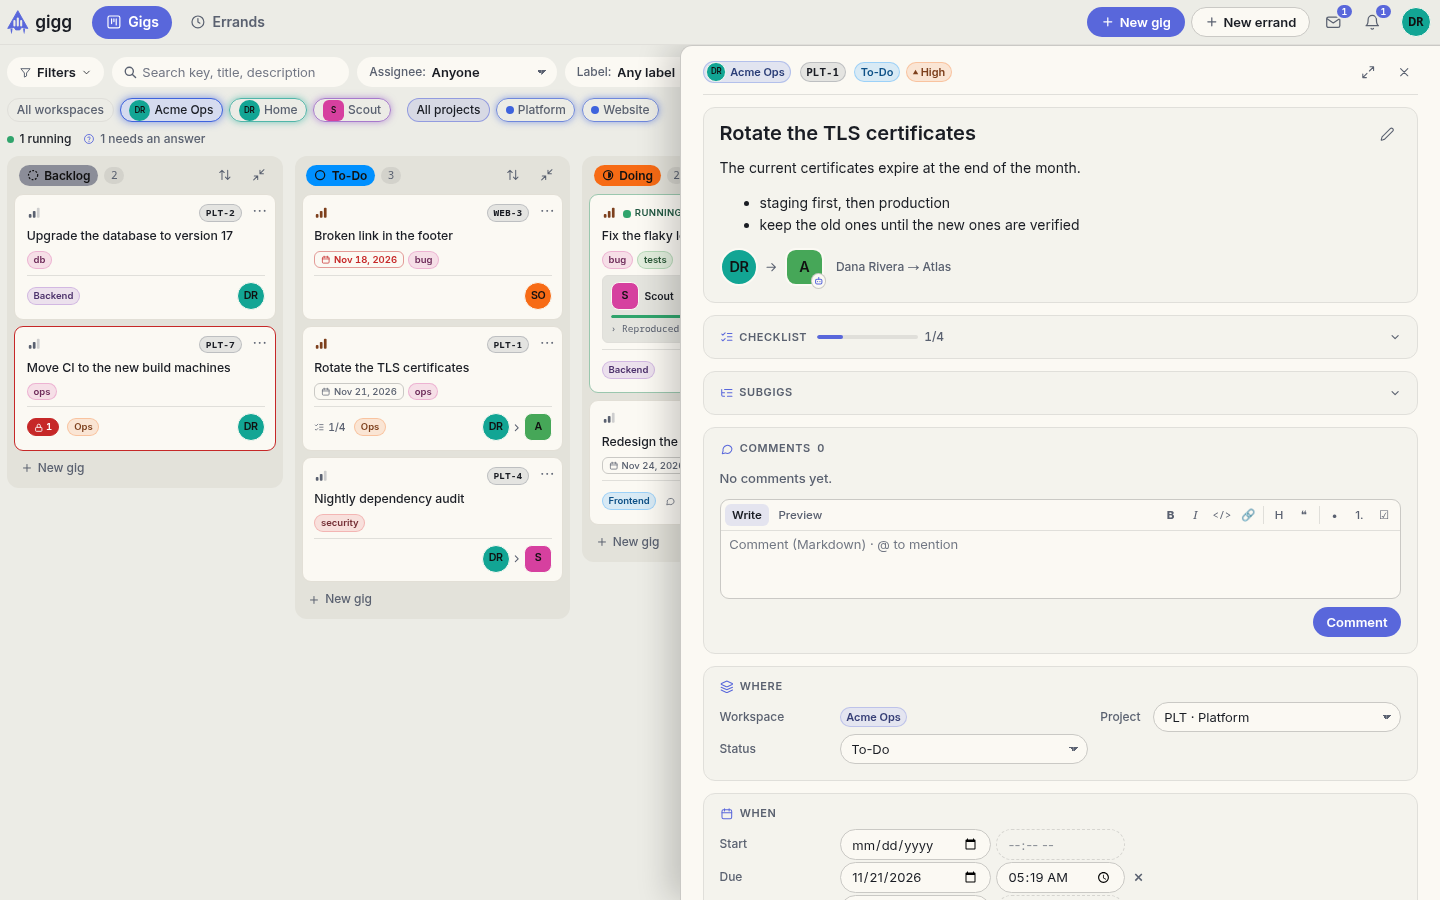
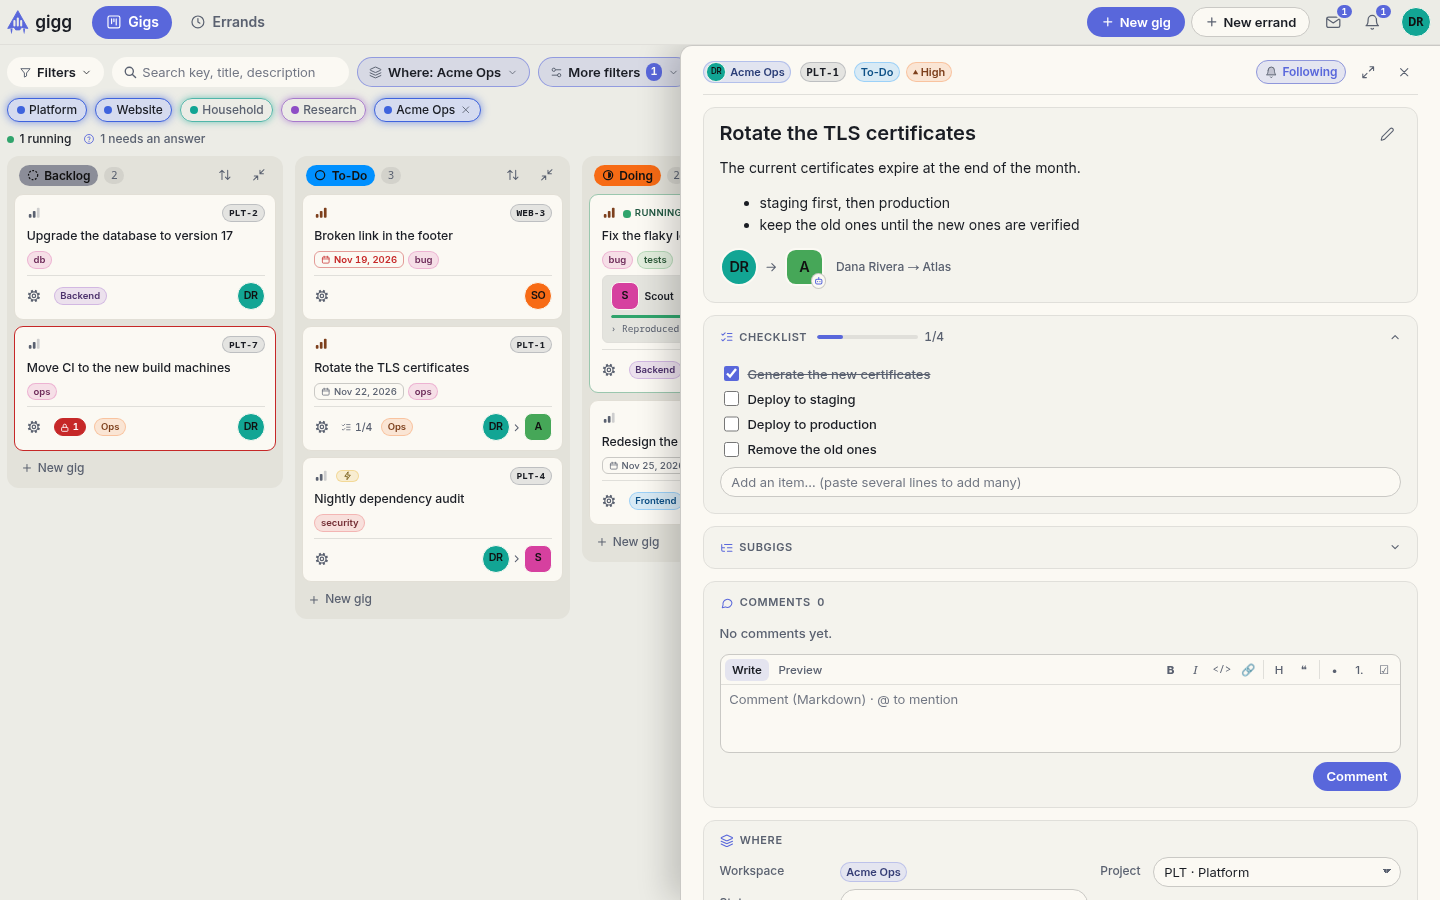
Docs: re-take the screenshots for the current UI; add the Metrics page
The images still showed the old cards and the chip rows. They are re-taken
from a freshly seeded demo instance: key in the card's corner, gear and
badges, the Where and More filters buttons, the Follow toggle, the Bell
card in the profile. New: metrics-day.png, in the Metrics guide and the
README gallery.

Scenario fixes: the filters shot uses ?ws=&pr= with the Where picker (its
caption now says one workspace and a minimum priority); a Metrics shot
(7 days, since the demo's gigs are all from today). The unused
help-night and tooltip-night shots (dropped from the docs in the gallery
rework) are no longer taken, and their images are removed.

diff --git a/dev/shot/docs-scenario.py b/dev/shot/docs-scenario.py
@@ -41,9 +41,6 @@ steps = [
     # ---- Nightwalker
     theme("nightwalker"),
     *page("/board", ".board .gig-card", "board-all-night"),
-    {"hover": ".gig-card .run-badge"},
-    {"wait": 800},
-    {"shot": "tooltip-night", "full": False},
     {"goto": "/board?p=1"},
     {"wait": ".board .gig-card"},
     click_text(".appbar a", "New gig"),
@@ -85,12 +82,6 @@ steps = [
     {"press": "Escape"},
     *page("/profile", ".profile", "profile-night"),
     *page("/admin/workspaces/1", "form[aria-label='Workspace settings']", "admin-workspace-night"),
-    {"goto": "/board"},
-    {"wait": ".board"},
-    {"click": ".bf-end .help-button"},
-    {"wait": ".help-body"},
-    {"wait": 900},
-    {"shot": "help-night", "full": False},
     # ---- Daywalker
     theme("daywalker"),
     # the filter row starts folded: open it for the filters screenshot (saved on the account, so a reload keeps it)
@@ -107,6 +98,14 @@ steps = [
     {"wait": 400},
     {"shot": "agent-run-day", "el": "section[aria-label='Agent run']", "margin": 8},
     *page("/inbox", ".inbox", "inbox-day"),
+    # the metrics page: wait for the tiles and the first chart to draw
+    {"goto": "/metrics"},
+    {"wait": ".mx-tiles"},
+    {"wait": ".mx-chart svg"},
+    # the demo's gigs were all made today: a week's range gives their bars some width
+    click_text("button", "7 days"),
+    {"wait": 1800},
+    {"shot": "metrics-day", "full": False},
     *page("/table", "table", "table-day"),
     *page("/themes", "h1", "themes-day"),
     {"goto": "/admin/users"},

diff --git a/README.md b/README.md
@@ -54,7 +54,7 @@ It tracks two kinds of work:
 <td valign="top"><a href="docs/guide/views.md"><img src="docs/images/palette-night.png" alt="The command palette"></a><br><sub><b>Command palette</b> (Ctrl+K): find a gig, jump to a project, run a command.</sub><br><br><a href="docs/guide/views.md"><img src="docs/images/table-day.png" alt="The table view"></a><br><sub><b>Table.</b> Filters, bulk actions and saved views.</sub></td>
 </tr>
 <tr>
-<td valign="top"><a href="docs/guide/recurring.md"><img src="docs/images/recurring-night.png" alt="Recurring gigs"></a><br><sub><b>Recurring gigs.</b> A template and a schedule each.</sub></td>
+<td valign="top"><a href="docs/guide/recurring.md"><img src="docs/images/recurring-night.png" alt="Recurring gigs"></a><br><sub><b>Recurring gigs.</b> A template and a schedule each.</sub><br><br><a href="docs/guide/metrics.md"><img src="docs/images/metrics-day.png" alt="The metrics page"></a><br><sub><b>Metrics.</b> What was done over a period: gigs, agent runs, cost, errands.</sub></td>
 <td valign="top"><a href="docs/guide/gigs.md"><img src="docs/images/gig-panel-day.png" alt="A gig's panel"></a><br><sub><b>A gig</b>, open beside the board: details, checklist, comments, history.</sub></td>
 </tr>
 </table>

diff --git a/docs/guide/metrics.md b/docs/guide/metrics.md
@@ -1,5 +1,7 @@
 # Metrics
 
+![The metrics page (Daywalker theme)](../images/metrics-day.png)
+
 **Metrics** (account menu, under Dashboard) shows what was done over a period: gigs created and done, how long they took, agent runs by outcome, cost and tokens, errand runs and recurring gigs that were on time. It reads the same data as the rest of the app, and you see only the workspaces and projects you can see anywhere else; admins see everything.
 
 ## Picking what to look at

diff --git a/docs/guide/board.md b/docs/guide/board.md
@@ -83,7 +83,7 @@ The avatars at the bottom right are the people assigned to the gig, overlapping.
 
 ## Filters
 
-![Filters: one workspace, a label and a priority (Daywalker theme)](../images/board-filters-day.png)
+![Filters: one workspace and a minimum priority (Daywalker theme)](../images/board-filters-day.png)
 
 The toolbar above the columns narrows the board, in one row:
 
